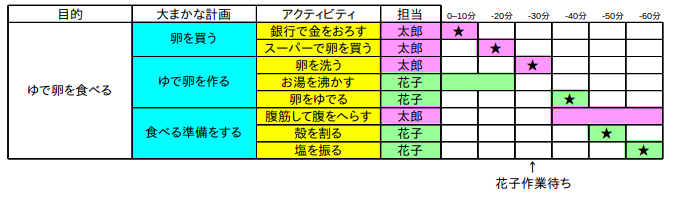
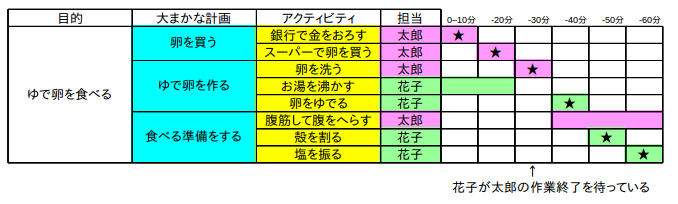
wbs修正

Changed region(s): [[0.0, 0.0, 0.9956, 0.96]]

diff --git a/docs/activity/wbs/text01/page04.html b/docs/activity/wbs/text01/page04.html
@@ -19,27 +19,94 @@
 
 <h2><script>GetTitle()</script></h2>
 
+<p>
+では実際に「ゆで卵を食べる」ことを目的とした WBS を作ってみましょう。
+</p>
+
+<p>
+まず WBS は以下のようにしました。今回は単純に 3 階層としています。
+</p>
+
 <div class="info">
 <input type="checkbox"><b>図1. WBS</b>
 <p>
 </p>
 <img src="./img/page04-fig1.png" alt="">
+<p>
+※ 上の図の <a href="./img/page04-fig1.odg">odg ファイル</a>
+</p>
 </div>
 
+<p>
+次は WBS からアクティビティ以外のタスクを削除して依存関係を考えます。
 <br>
+前のページで書いたように依存関係は矢印で表されますので、下の例で言えば「スーパーで卵を買う」ためには「銀行で金をおろす」必要があることが分かります。
+</p>
+
 <div class="info">
 <input type="checkbox"><b>図2. アクティビティ間の依存関係 (一種のPERT図になっていることに注目) </b>
 <p>
 </p>
 <img src="./img/page04-fig2.png" alt="">
+<p>
+※ 上の図の <a href="./img/page04-fig2.odg">odg ファイル</a>
+</p>
 </div>
 
+<p>
+WBS と依存関係図を描いたら、最後に WBS + ガントチャートを描きます。
+</p>
+
+<p>
+依存関係に気を付けつつ、並行で作業できそうなアクティビティは効率よく同じ時間帯に割り振ります。
 <br>
+下の例で言えば買出し作業とお湯を沸かす作業は2人で別々に分担していますので並行作業していることになります。
+<br>
+ただし、お湯を沸かす作業よりも買出しの方が時間がかかっていますので、「金を下ろす」→「卵買う」→「卵洗う」がクリティカルパスになります。
+<br>
+したがって花子はお湯を沸かした後に太郎の作業終了を待つという非効率な時間が生じていますので、その時間帯に花子は別の作業をしても良いでしょう(腹筋とか)。
+</p>
+
+<p>
+また作業時間帯は下の例では 10 分単位で区切られていますが、特に決まりは無いので作業内容に合わせて 1 秒とか 1 分とか 1 時間とか 1 日とか自由に決めて結構です。
+</p>
+
 <div class="info">
 <input type="checkbox"><b>図3. WBS + ガントチャート (★がクリティカルパス) </b>
 <p>
 </p>
 <img src="./img/page04-fig3.png" alt="">
+<p>
+※ 上のチャートの <a href="./img/page04-fig3.ods">ods ファイル</a>
+</p>
+</div>
+
+<p>
+さて、クリティカルパスを見つける作業は経験と勘が必要なので慣れていないうちは結構大変なのですが、一般的に
+</p>
+<ul>
+<li> 並行作業しているアクティビティのうち一番時間がかかるアクティビティ</li>
+</ul>
+<p>
+がクリティカルパスになることが多いです。
+<br>
+例えば上の例で、買出しよりもお湯を沸かす時間の方が時間がかかるときは「お湯を沸かす」の方がクリティカルパスになります(図4)。
+</p>
+
+<p>
+なお太郎の方に時間の空きが出来てしまうので、下の例では卵を洗ったらすぐに腹筋を開始して無駄な時間が生じないようにしています。
+<br>
+この様に、同時間帯に作業終了待ちをしているメンバーがいないようなガントチャートを作ると作業効率が良くなります。
+</p>
+
+<div class="info">
+<input type="checkbox"><b>図4. 「お湯を沸かす」がクリティカルパスになった場合 </b>
+<p>
+</p>
+<img src="./img/page04-fig4.png" alt="">
+<p>
+※ 上のチャートの <a href="./img/page04-fig4.ods">ods ファイル</a>
+</p>
 </div>
 
 

diff --git a/docs/activity/wbs/text01/practice.html b/docs/activity/wbs/text01/practice.html
@@ -97,7 +97,7 @@
 条件は以下のとおりです。
 </p>
 <ul>
-<li> チームメンバー: 自分のみ</li>
+<li> チームメンバー: 太郎・次郎</li>
 <li> 資金: 0円</li>
 <li> 手持ちの食材: キャベツ 1玉(未加工)</li>
 <li> 手持ち調味料: 塩・胡椒・油</li>
